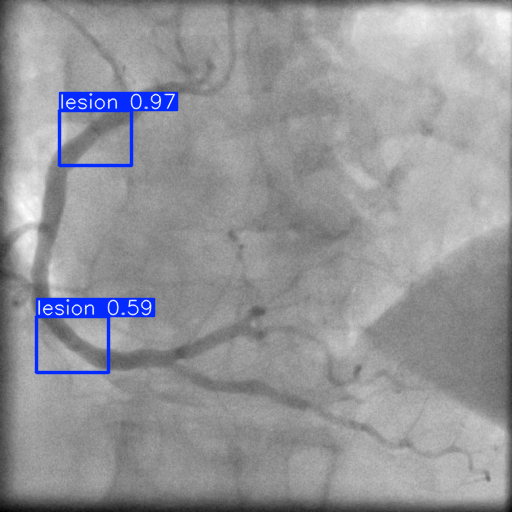
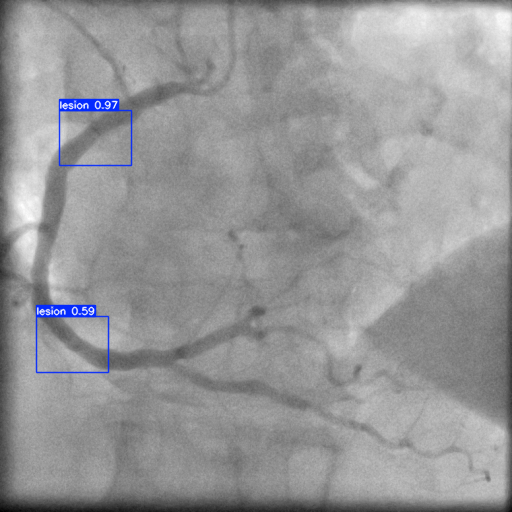
Change font type and size

Changed region(s): [[0.0938, 0.1562, 0.375, 0.3438], [0.0625, 0.5625, 0.3125, 0.75]]

diff --git a/inference/predict.py b/inference/predict.py
@@ -76,6 +76,25 @@ DEFAULT_PARAMS: Dict[str, Any] = {
     'line_width': None,
 }
 
+VISUALIZATION_PARAMS: Dict[str, Any] = {
+    'conf': True,
+    'line_width': 1,
+    'font_size': 12,
+    'font': 'Helvetica.ttf',
+    'pil': False,
+    'img': None,
+    'im_gpu': None,
+    'kpt_radius': 3,
+    'kpt_line': True,
+    'labels': True,
+    'boxes': True,
+    'probs': False,
+    'show': False,
+    'save': True,
+    'filename': 'annotated_image.png',  
+    'color_mode': 'class',
+}
+
 MODEL_PATH: str = './weights/best.pt'  # Replace with your actual model path
 
 
@@ -201,7 +220,8 @@ def main() -> None:
             image_base_name: str = os.path.splitext(os.path.basename(image_path))[0]
             output_filename: str = f'predict_{image_base_name}.png'
             output_path: Union[str, os.PathLike] = os.path.join(output_dir, output_filename)
-            annotated_image = result.plot()
+            VISUALIZATION_PARAMS['filename'] = output_path
+            annotated_image = result.plot(**VISUALIZATION_PARAMS)
             cv2.imwrite(output_path, annotated_image)
             logging.debug(f"Result saved to {output_path}")
 
